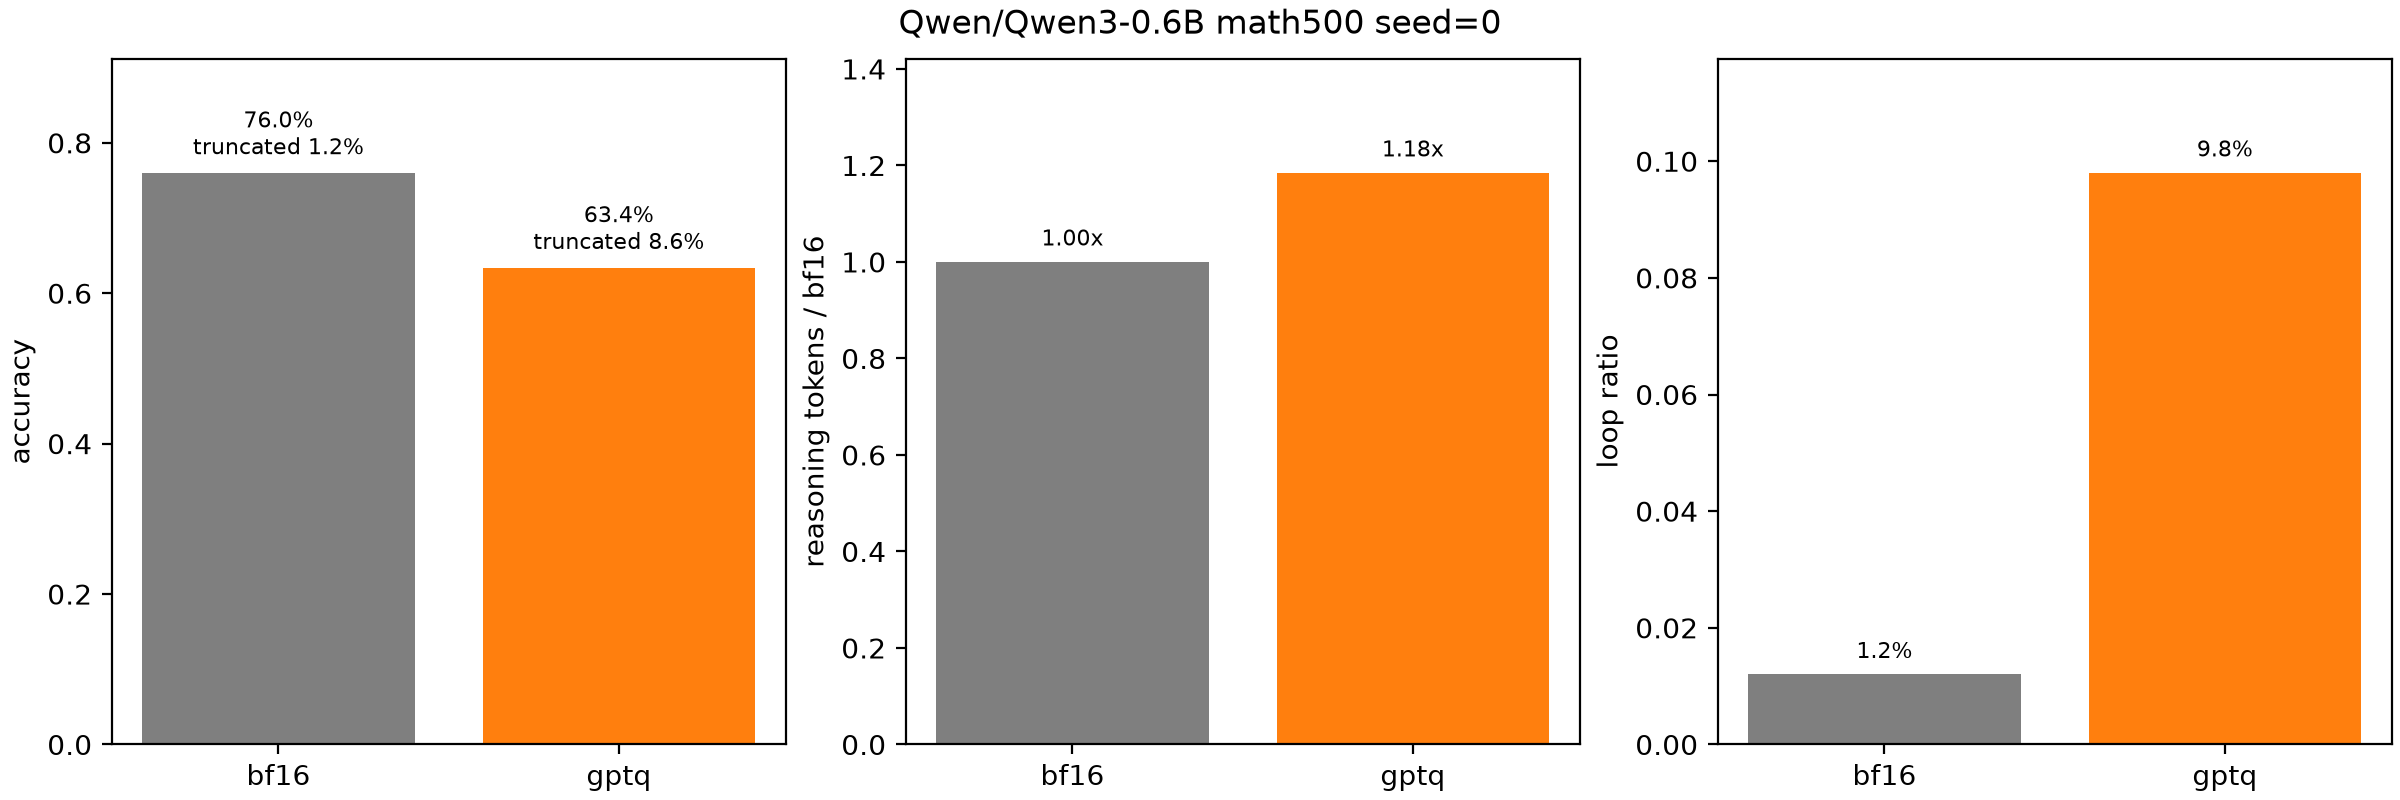
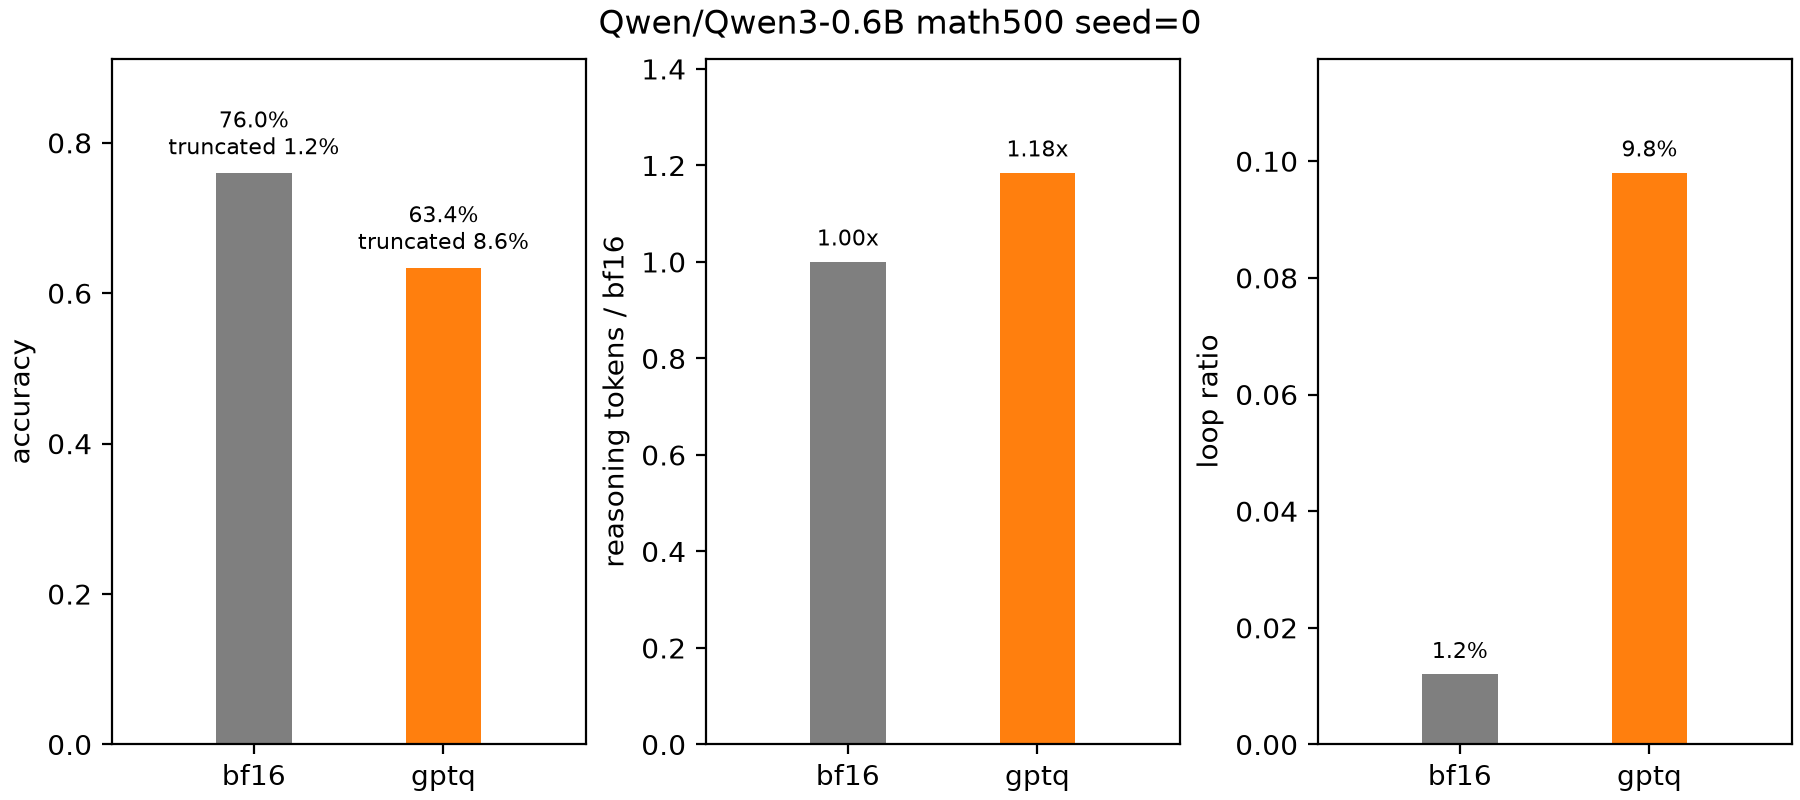
add routing plot

diff --git a/plots/routing.py b/plots/routing.py
@@ -1,0 +1,61 @@
+from dataclasses import dataclass
+
+import matplotlib.pyplot as plt
+from simple_parsing import parse
+
+from primitives.hub import load_result, result_exists
+from primitives.paths import make_quantized_path, make_routing_path, make_target_path
+from primitives.plot import METHOD_COLORS, save_figure
+
+ROUTE_COLORS = {"high": "tab:red", "low": "tab:blue", "random": "tab:purple"}
+ROUTE_RATIOS = [0.1, 0.2, 0.8]
+
+
+@dataclass
+class Config:
+    model_name: str = "Qwen/Qwen3-0.6B"
+    num_bits: int = 4
+    group_size: int = 128
+    num_samples: int = 128
+    seed: int = 0
+
+
+def main() -> None:
+    config = parse(Config)
+    file_name = f"seed={config.seed}"
+    bf16_accuracy = load_result("math500", make_target_path("bf16", config.model_name, config.num_bits, config.group_size, config.num_samples), file_name)["accuracy"]
+    methods = []
+    for method in ["gptq", "awq"]:
+        if result_exists("math500", make_quantized_path(method, config.model_name, config.num_bits, config.group_size, config.num_samples), file_name):
+            methods.append(method)
+
+    fig, axes = plt.subplots(1, len(methods), figsize=(6 * len(methods), 4), layout="constrained", squeeze=False)
+    for ax, method in zip(axes[0], methods):
+        quantized_path = make_quantized_path(method, config.model_name, config.num_bits, config.group_size, config.num_samples)
+        ax.axhline(bf16_accuracy, color=METHOD_COLORS["bf16"], linestyle="--", label=f"bf16 {bf16_accuracy:.1%}")
+        quantized_accuracy = load_result("math500", quantized_path, file_name)["accuracy"]
+        ax.axhline(quantized_accuracy, color=METHOD_COLORS[method], linestyle="--", label=f"{method} {quantized_accuracy:.1%}")
+        all_accuracies = [bf16_accuracy, quantized_accuracy]
+        for offset, (route, color) in zip([-0.25, 0, 0.25], ROUTE_COLORS.items()):
+            xs, accuracies = [], []
+            for x, route_ratio in enumerate(ROUTE_RATIOS):
+                target = make_routing_path(quantized_path, route_ratio, route)
+                if result_exists("math500", target, file_name):
+                    xs.append(x + offset)
+                    accuracies.append(load_result("math500", target, file_name)["accuracy"])
+            ax.bar(xs, accuracies, width=0.25, color=color, label=route)
+            all_accuracies += accuracies
+            for x, accuracy in zip(xs, accuracies):
+                ax.annotate(f"{accuracy:.1%}", (x, accuracy), xytext=(0, 4), textcoords="offset points", ha="center", va="bottom", fontsize=8)
+        ax.set_xticks(range(len(ROUTE_RATIOS)), ROUTE_RATIOS)
+        ax.set_xlabel("route ratio")
+        ax.set_ylabel("accuracy")
+        ax.set_ylim(min(all_accuracies) - 0.03, max(all_accuracies) + 0.03)
+        ax.set_title(method)
+        ax.legend(fontsize=8, loc="center left", bbox_to_anchor=(1, 0.5))
+    fig.suptitle(f"{config.model_name} math500 routing {file_name}")
+    save_figure(fig, config.model_name, "routing")
+
+
+if __name__ == "__main__":
+    main()

diff --git a/plots/math500.py b/plots/math500.py
@@ -48,12 +48,13 @@ def main() -> None:
         ("loop ratio", loops, [f"{loop:.1%}" for loop in loops]),
     ]
 
-    fig, axes = plt.subplots(1, len(panels), figsize=(4 * len(panels), 4), layout="constrained")
+    fig, axes = plt.subplots(1, len(panels), figsize=((1 + len(methods)) * len(panels), 4), layout="constrained")
     for ax, (ylabel, values, texts) in zip(axes, panels):
-        ax.bar(range(len(methods)), values, color=[METHOD_COLORS[method] for method in methods])
+        ax.bar(range(len(methods)), values, width=0.4, color=[METHOD_COLORS[method] for method in methods])
         for x, (value, text) in enumerate(zip(values, texts)):
             ax.annotate(text, (x, value), xytext=(0, 4), textcoords="offset points", ha="center", va="bottom", fontsize=8)
         ax.set_xticks(range(len(methods)), methods)
+        ax.set_xlim(-0.75, len(methods) - 0.25)
         ax.set_ylabel(ylabel)
         ax.margins(y=0.2)
         ax.set_ylim(bottom=0)
